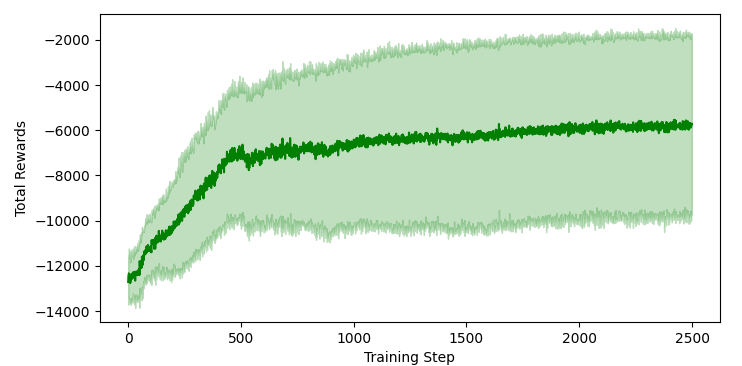
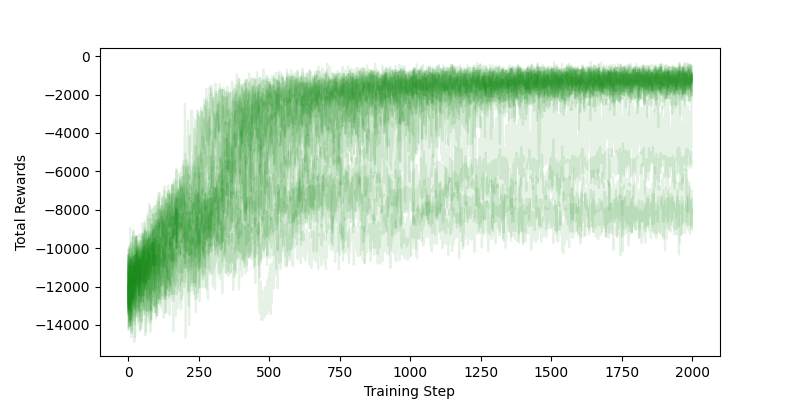
Switch LSTM training over to use burn-in to initialise hidden state

diff --git a/examples/gym_w_lstm_runner.py b/examples/gym_w_lstm_runner.py
@@ -1,9 +1,11 @@
 import typing
 from functools import partial
 
+import chex
 import jax
 import jax.numpy as jnp
 import jax_tqdm
+import numpy as np
 from gymnax.environments import Pendulum, environment, spaces
 
 import jax_ppo
@@ -27,24 +29,60 @@ def _reset_env(
     key: jax.random.PRNGKey,
     env: environment.Environment,
     env_params: environment.EnvParams,
+    agent: jax_ppo.Agent,
     seq_len: int,
-):
-    def step(carry, _):
+    n_recurrent_layers: int,
+    n_burn_in: int,
+) -> typing.Tuple[chex.PRNGKey, chex.Array, environment.EnvState, jax_ppo.HiddenStates]:
+    def warmup_step(carry, _):
         _observation, _state, k = carry
         k, k1, k2 = jax.random.split(k, 3)
         _action = env.action_space(env_params).sample(k1)
-        # _action = jnp.zeros(action_shape)
         new_observation, new_state, _, _, _ = env.step(k2, _state, _action, env_params)
         return (new_observation, new_state, k), new_observation
+
+    def burn_in_step(_, carry):
+        k, _agent, _hidden_state, _state, _observation = carry
+
+        (
+            k,
+            _action,
+            _log_likelihood,
+            _value,
+            new_hidden_state,
+        ) = jax_ppo.sample_lstm_actions(k, _agent, _observation, _hidden_state)
+
+        k, k_step = jax.random.split(k)
+        new_observation, new_state, _reward, _done, _ = env.step(
+            k_step, _state, _action, env_params
+        )
+
+        new_observation = jnp.hstack(
+            (_observation.at[:, 1:].get(), new_observation[jnp.newaxis, jnp.newaxis])
+        )
+
+        return k, _agent, new_hidden_state, new_state, new_observation
 
     key, reset_key = jax.random.split(key)
     observation, state = env.reset(reset_key, env_params)
 
     (observation, state, key), observations = jax.lax.scan(
-        step, (observation, state, key), None, length=seq_len
+        warmup_step, (observation, state, key), None, length=seq_len
     )
 
-    return key, observations[jnp.newaxis], state
+    observations = observations[jnp.newaxis]
+
+    obs_size = np.prod(env.observation_space(env_params).shape)
+    hidden_states = jax_ppo.initialise_carry(n_recurrent_layers, (1,), obs_size)
+
+    key, agent, hidden_states, state, observations = jax.lax.fori_loop(
+        0,
+        n_burn_in,
+        burn_in_step,
+        (key, agent, hidden_states, state, observations),
+    )
+
+    return key, observations, state, hidden_states
 
 
 def _generate_samples(
@@ -52,11 +90,12 @@ def _generate_samples(
     env: environment.Environment,
     env_params: environment.EnvParams,
     agent: jax_ppo.Agent,
-    hidden_state: jax_ppo.HiddenStates,
     n_samples: int,
     seq_len: int,
+    n_recurrent_layers: int,
+    n_burn_in: int,
     ppo_params: jax_ppo.PPOParams,
-) -> typing.Tuple[jax.random.PRNGKey, jax_ppo.HiddenStates, jax_ppo.LSTMBatch]:
+) -> typing.Tuple[jax.random.PRNGKey, jax_ppo.LSTMBatch]:
     def _sample_step(carry, _):
         k, _agent, _hidden_state, _state, _observation = carry
 
@@ -76,10 +115,12 @@ def _generate_samples(
         new_observation = jnp.hstack(
             (_observation.at[:, 1:].get(), new_observation[jnp.newaxis, jnp.newaxis])
         )
-        k, new_observation, new_state = jax.lax.cond(
+        k, new_observation, new_state, new_hidden_state = jax.lax.cond(
             _done,
-            lambda _k: _reset_env(_k, env, env_params, seq_len),
-            lambda _k: (_k, new_observation, new_state),
+            lambda _k: _reset_env(
+                _k, env, env_params, _agent, seq_len, n_recurrent_layers, n_burn_in
+            ),
+            lambda _k: (_k, new_observation, new_state, new_hidden_state),
             k,
         )
 
@@ -96,11 +137,13 @@ def _generate_samples(
             ),
         )
 
-    key, observation, state = _reset_env(key, env, env_params, seq_len)
+    key, observation, state, hidden_states = _reset_env(
+        key, env, env_params, agent, seq_len, n_recurrent_layers, n_burn_in
+    )
 
-    (key, agent, hidden_state, state, observation), trajectories = jax.lax.scan(
+    _, trajectories = jax.lax.scan(
         _sample_step,
-        (key, agent, hidden_state, state, observation),
+        (key, agent, hidden_states, state, observation),
         None,
         length=n_samples + 1,
     )
@@ -109,7 +152,7 @@ def _generate_samples(
     # TODO: Need to remove batch axes here? Can this be pulled into batch processing?
     batch = jax.tree_util.tree_map(lambda x: x[:, 0], batch)
 
-    return key, hidden_state, batch
+    return key, batch
 
 
 def test_policy(
@@ -117,9 +160,10 @@ def test_policy(
     env: environment.Environment,
     env_params: environment.EnvParams,
     agent: jax_ppo.Agent,
-    hidden_state: jax_ppo.HiddenStates,
     n_steps: int,
     seq_len: int,
+    n_recurrent_layers: int,
+    n_burn_in: int,
     greedy_policy: bool = False,
 ):
     def _step(carry, _):
@@ -147,10 +191,12 @@ def test_policy(
             (_observation.at[:, 1:].get(), new_observation[jnp.newaxis, jnp.newaxis])
         )
 
-        k, new_observation, new_state = jax.lax.cond(
+        k, new_observation, new_state, new_hidden_state = jax.lax.cond(
             _done,
-            lambda _k: _reset_env(_k, env, env_params, seq_len),
-            lambda _k: (_k, new_observation, new_state),
+            lambda _k: _reset_env(
+                _k, env, env_params, _agent, seq_len, n_recurrent_layers, n_burn_in
+            ),
+            lambda _k: (_k, new_observation, new_state, new_hidden_state),
             k,
         )
 
@@ -159,14 +205,12 @@ def test_policy(
             (_observation, _reward[0]),
         )
 
-    (
-        key,
-        observation,
-        state,
-    ) = _reset_env(key, env, env_params, seq_len)
+    key, observation, state, hidden_states = _reset_env(
+        key, env, env_params, agent, seq_len, n_recurrent_layers, n_burn_in
+    )
 
-    (key, agent, hidden_state, state, observation), records = jax.lax.scan(
-        _step, (key, agent, hidden_state, state, observation), None, length=n_steps
+    _, records = jax.lax.scan(
+        _step, (key, agent, hidden_states, state, observation), None, length=n_steps
     )
 
     return key, records[0], records[1]
@@ -182,6 +226,8 @@ def test_policy(
         "mini_batch_size",
         "n_test_steps",
         "seq_len",
+        "n_recurrent_layers",
+        "n_burn_in",
         "greedy_test_policy",
     ),
 )
@@ -190,29 +236,37 @@ def train(
     env: environment.Environment,
     env_params: environment.EnvParams,
     agent: jax_ppo.Agent,
-    hidden_state: jax_ppo.HiddenStates,
     n_train: int,
     n_samples: int,
     n_train_epochs: int,
     mini_batch_size: int,
     n_test_steps: int,
     seq_len: int,
+    n_recurrent_layers: int,
+    n_burn_in: int,
     ppo_params: jax_ppo.PPOParams,
     greedy_test_policy: bool = False,
 ) -> typing.Tuple[
     jax.random.PRNGKey,
     jax_ppo.Agent,
-    jax_ppo.HiddenStates,
     typing.Dict,
     jnp.array,
     jnp.array,
 ]:
     @jax_tqdm.scan_tqdm(n_train)
     def _train_step(carry, _):
-        _key, _agent, _hidden_state = carry
+        _key, _agent = carry
 
-        _key, _hidden_state, batch = _generate_samples(
-            _key, env, env_params, _agent, _hidden_state, n_samples, seq_len, ppo_params
+        _key, batch = _generate_samples(
+            _key,
+            env,
+            env_params,
+            _agent,
+            n_samples,
+            seq_len,
+            n_recurrent_layers,
+            n_burn_in,
+            ppo_params,
         )
 
         _key, _agent, _losses = jax_ppo.train_step(
@@ -230,16 +284,17 @@ def train(
             env,
             env_params,
             _agent,
-            _hidden_state,
             n_test_steps,
             seq_len,
+            n_recurrent_layers,
+            n_burn_in,
             greedy_policy=greedy_test_policy,
         )
 
-        return (_key, _agent, _hidden_state), (_losses, _ts, _rewards)
+        return (_key, _agent), (_losses, _ts, _rewards)
 
-    (key, agent, hidden_state), (losses, ts, rewards) = jax.lax.scan(
-        _train_step, (key, agent, hidden_state), jnp.arange(n_train)
+    (key, agent), (losses, ts, rewards) = jax.lax.scan(
+        _train_step, (key, agent), jnp.arange(n_train)
     )
 
-    return key, agent, hidden_state, losses, ts, rewards
+    return key, agent, losses, ts, rewards

diff --git a/README.md b/README.md
@@ -9,6 +9,7 @@ and the recurrent implementation using LSTM motivated by these blogs:
 
 - https://npitsillos.github.io/blog/2021/recurrent-ppo/
 - https://medium.com/@ngoodger_7766/proximal-policy-optimisation-in-pytorch-with-recurrent-models-edefb8a72180
+- https://kam.al/blog/ppo_stale_states/
 
 ## Usage
 
@@ -54,29 +55,48 @@ component of the observation masked.
 Total rewards per train step with parameters
 (see [example/lstm_usage.ipynb](examples/lstm_usage.ipynb))
 
-- `n-train`: 2,500
-- `n-steps`: 2,048
-- `n-train-epochs`: 4
-- `mini-batch-size`: 256
+- `n-train`: 2,000
+- `n-steps`: 8,192
+- `n-train-epochs`: 2
+- `mini-batch-size`: 512
 - `n-test-steps`: 2,000
-- `sequence-length:` 8
+- `sequence-length`: 8
+- `n-burn-in`:
 - `gamma`: 0.95
-- `gae-lambda`: 0.95
-- `entropy-coefficient`: 0.0001
+- `gae-lambda`: 0.99
+- `entropy-coefficient`: 0.002
 - `adam-eps`: 1e-8
-- `clip-coefficient`: 0.2
+- `clip-coefficient`: 0.1
 - `critic-coefficient`: 0.5
 - `max-grad-norm`: 0.75
-- `LR`: 2e-3 &rarr; 2e-5
+- `LR`: 2e-3 &rarr; 2e-4
+
+> **_NOTE:_**  This achieves good results but seems to be somewhat unstable. I
+> suspect this might be due to stale hidden states
+> ([see here](https://kam.al/blog/ppo_stale_states/))
 
 ![LSTM Policy Rewards](.github/images/pendulum_lstm_rewards.png)
+
+## Implementation Notes
+
+### Recurrent Hidden States Initialisation
+
+At the start of each episode we reset the LSTM hidden-states to zero, but then
+*burn-in* their value before we collect trajectories (and the same during evaluation).
+I did also try carrying over hidden states between training steps, with good results,
+but if training across multiple environments this becomes a bit harder to reason about.
+
+Note that this may lead to strange behaviour is the training environment quickly
+reaches a terminal state (i.e. if the episode completes during the burn-in period).
 
 ## TODO
 
 - Early stopping based on the KL-divergence is not implemented.
 - Benchmark against other reference implementations.
+- Recalculate advantages during policy update.
+- Recalculate hidden states during policy update.
 
-## Developers
+## Developer Notes
 
 ### Pre-Commit Hooks
 
